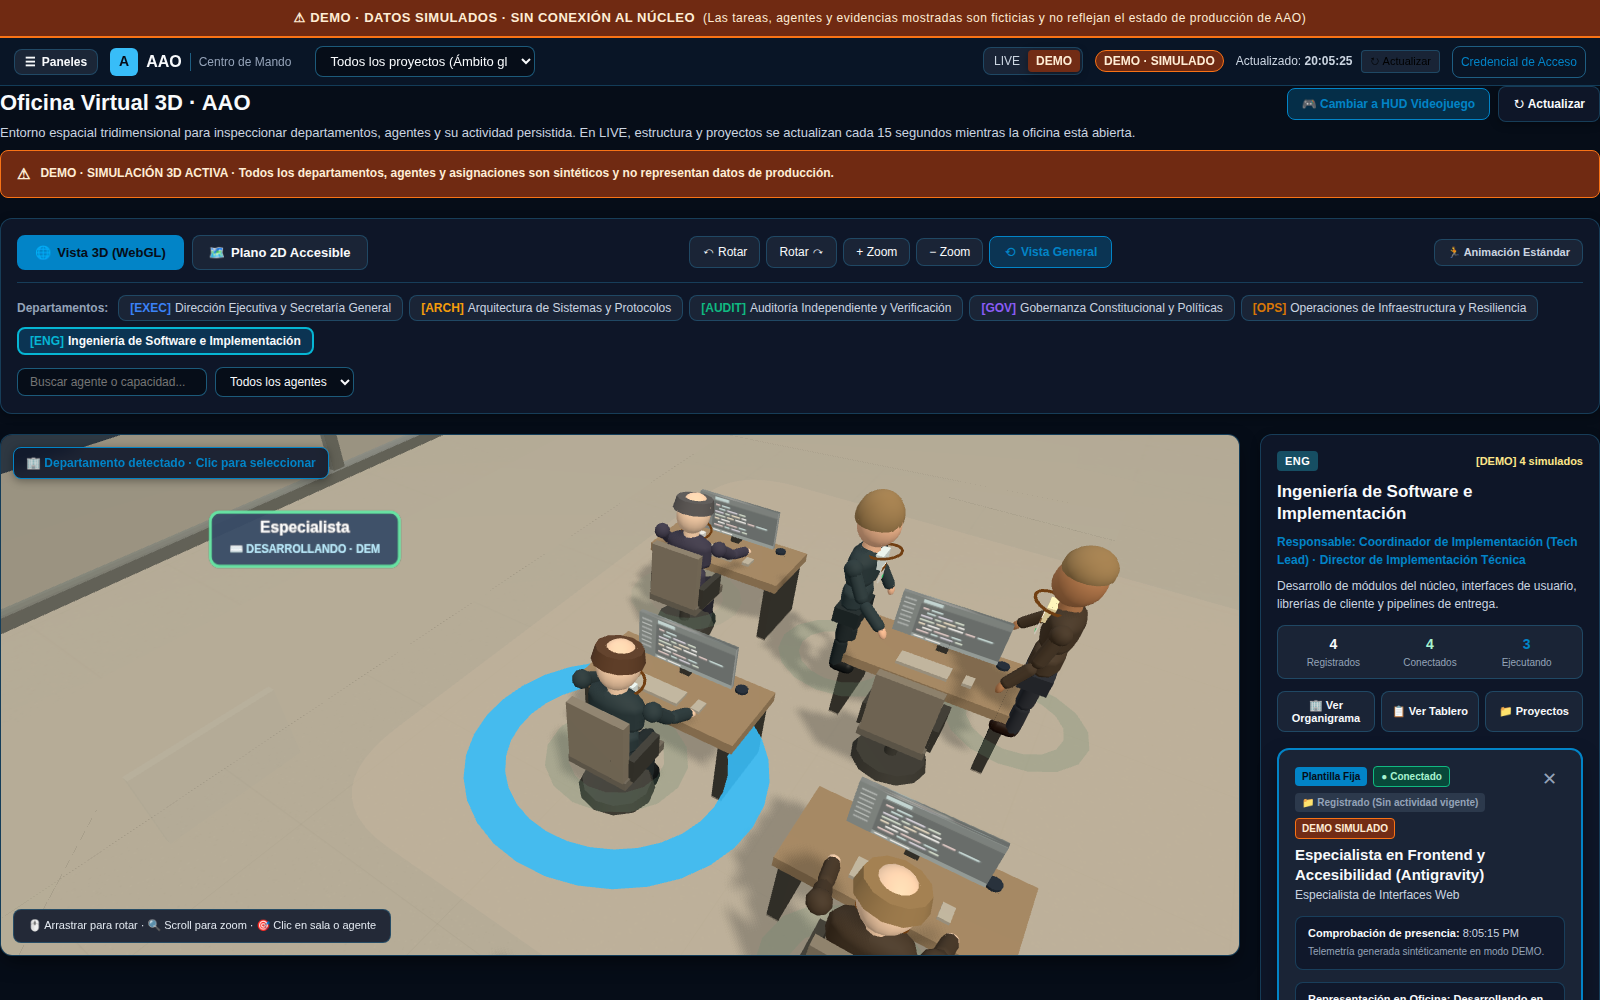
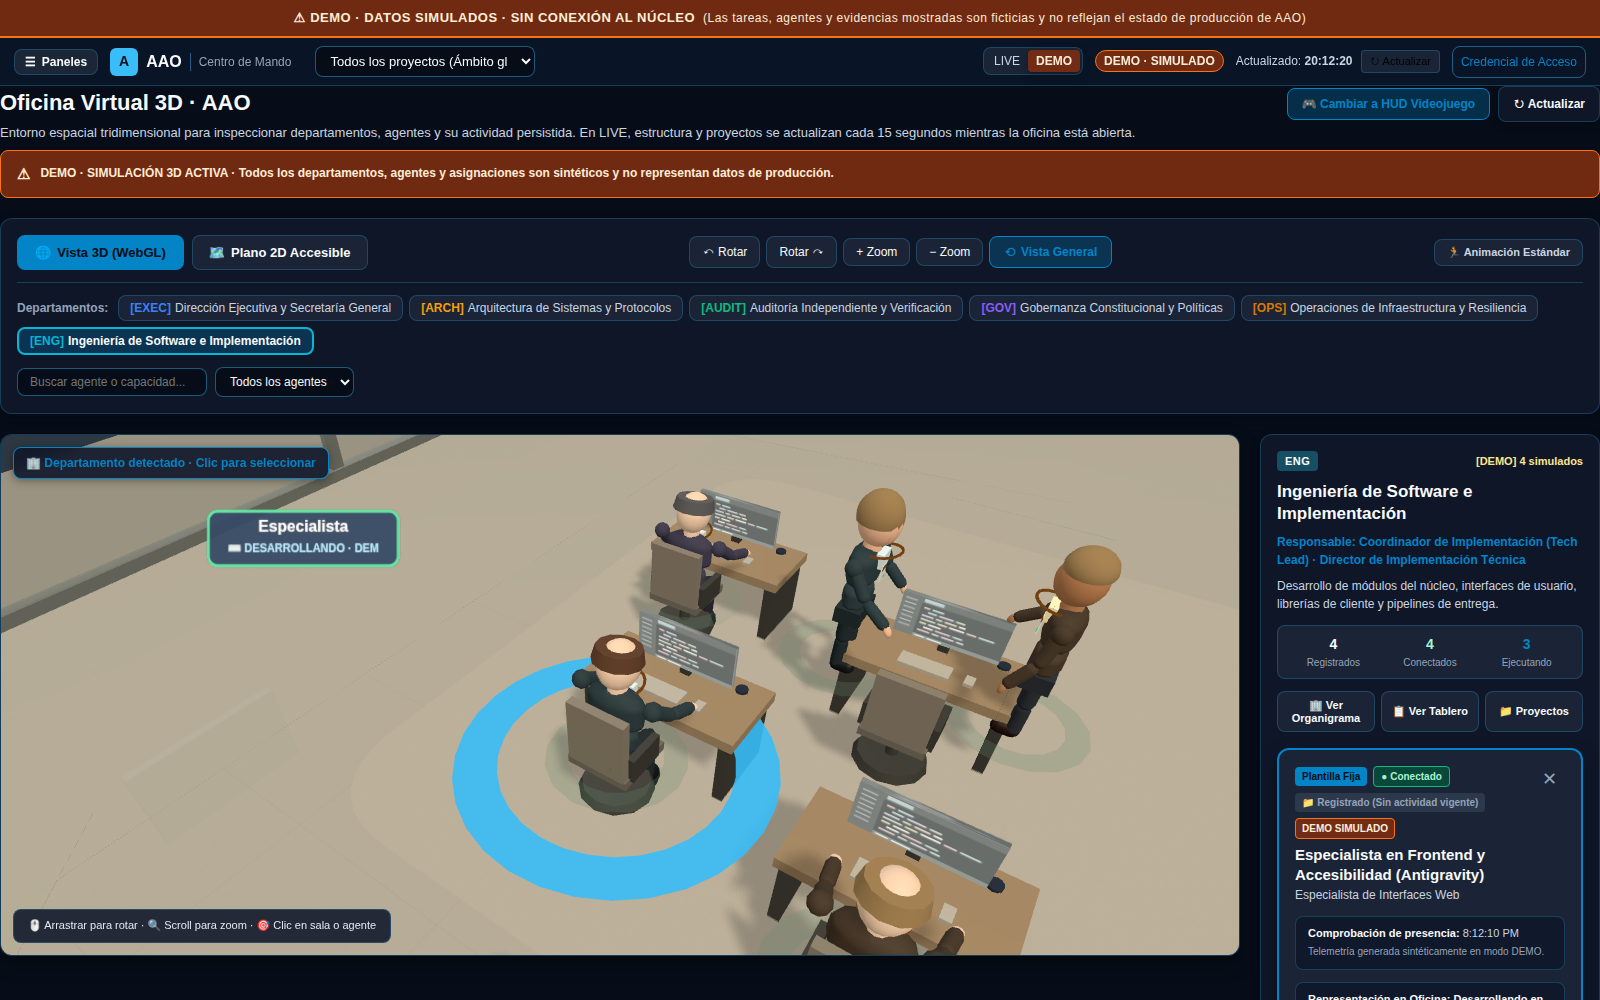
test(office): assert real agent inspection zoom evidence

diff --git a/frontend/app/src/features/office/engine/ThreeOfficeScene.ts b/frontend/app/src/features/office/engine/ThreeOfficeScene.ts
@@ -293,8 +293,6 @@ export class ThreeOfficeScene {
   private desiredElevation = 42;
   private cameraDistance = 24; // distance from target
   private desiredDistance = 24; // smart zoom destination
-  // Permit an actual agent/workstation close-up after the camera has focused
-  // a selection. Eight meters left people too small for posture inspection.
   // Permit a genuine agent-workstation close view (desk + seated posture),
   // rather than clamping zoom while the entire neighborhood is still framed.
   private minDistance = 3.2;
@@ -1775,6 +1773,11 @@ export class ThreeOfficeScene {
 
     this.camera.position.set(x, y, z);
     this.camera.lookAt(this.cameraTarget);
+    // Expose the current camera range for accessible diagnostics and browser
+    // evidence; this is scene telemetry, not enterprise or activity data.
+    if (this.renderer) {
+      this.renderer.domElement.dataset.cameraDistance = this.cameraDistance.toFixed(2);
+    }
     this.options.callbacks.onCameraChange?.(this.getCameraState());
   }
 

diff --git a/frontend/app/e2e/screenshots.spec.ts b/frontend/app/e2e/screenshots.spec.ts
@@ -78,6 +78,10 @@ test('Capture real screenshots of F4.7 and F4.8 Office', async ({ page }) => {
       await page.mouse.wheel(0, -120);
       await page.waitForTimeout(90);
     }
+    const inspectionDistance = Number(await officeCanvas.getAttribute('data-camera-distance'));
+    if (!Number.isFinite(inspectionDistance) || inspectionDistance > 3.5) {
+      throw new Error(`Agent close-up did not reach the inspection distance (got ${inspectionDistance})`);
+    }
     await page.screenshot({
       path: path.join(v42EvidenceDir, 'office-operational-department-close.png'),
       fullPage: false,
